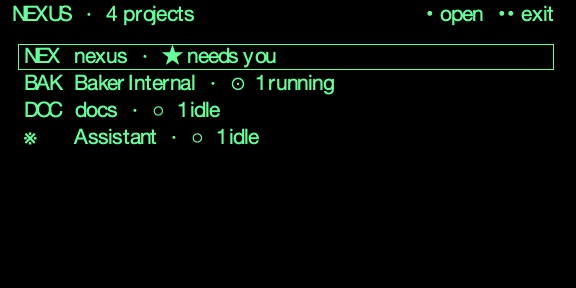
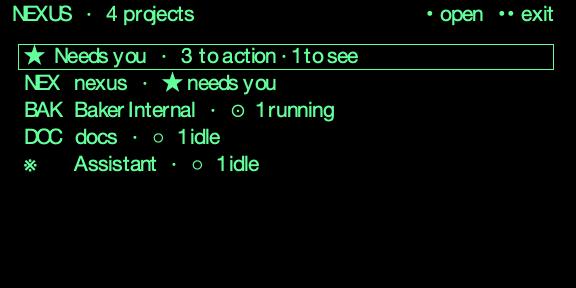
fix(glasses): review — landing waits for the attention fetch, live door row, list toast, rows show the reason, capture matrix (#477 slice 7)
Copilot's five findings on PR #493, all applied:
- The landing decision waits for the first attention answer (`attentionReady`
  in the store, set by HubFeed's fetch on success or failure); the hub marks
  `ok` before that fetch returns, so the old one-shot check only ever saw the
  sessions.
- The Projects signature includes the needs counts, so the door row appears
  and updates while Projects is open.
- The Needs-you chrome shows the toast `resolveLens` leaves (its signature
  includes `s.error`), cleared on the next navigation, instead of the message
  surfacing later on an unrelated card.
- Rows carry the reason — the hub's reason for a session, the item's why, the
  kind label only when the why is empty — as the intent's "glyph, title, why"
  said; the reason is fitted to 200 px, the name gets the rest.
- `scripts/capture-screens.mjs` shoots `needs` and `item` instead of the
  deleted `interrupt`; docs/screens gains needs.png and item.png, projects.png
  is regenerated (the door row), interrupt.png is removed.

diff --git a/src/glasses/src/glass/AppGlasses3c.tsx b/src/glasses/src/glass/AppGlasses3c.tsx
@@ -219,10 +219,13 @@ const PROJECT_NAME_W = PROJECT_ROW_W - 24
 const NEEDS_GLYPH_ROW = '★'
 const ITEM_RAIL_W = 214
 
-/** Needs-you row label: glyph · name · meta, the name fitted to what the fixed parts leave. */
+/** Needs-you row label: glyph · name · reason. The reason (a why, or the hub's reason)
+ *  gets up to NEEDS_META_W; the name gets whatever the fixed parts leave. */
+const NEEDS_META_W = 200
 function needsRowLabel(r: { glyph: string; name: string; meta: string }): string {
-  const budget = PROJECT_NAME_W - Math.ceil(getTextWidth(`${r.glyph}     ·   ${r.meta}`))
-  return `${r.glyph}  ${fitToWidth(r.name, budget)}   ·   ${r.meta}`
+  const meta = fitToWidth(r.meta, NEEDS_META_W)
+  const budget = PROJECT_NAME_W - Math.ceil(getTextWidth(`${r.glyph}     ·   ${meta}`))
+  return `${r.glyph}  ${fitToWidth(r.name, budget)}   ·   ${meta}`
 }
 
 // A firmware LIST item is a single text run, so the only lever for lining the name
@@ -283,7 +286,7 @@ function sessionRow(s: SessionSummary, nameW: number): { id: string; label: stri
 // selection) when a store update doesn't actually change the display.
 function signature(s: GlassSnapshot, scr: Screen, nav: Nav, groups: ProjGroup[]): string {
   if (scr === 'projects')
-    return `proj|${s.connection}|${groups.map((g) => `${g.badge}${g.name}${g.sessions.length}${g.sessions.some((x) => x.needsAttention) ? '!' : ''}`).join('~')}`
+    return `proj|${s.connection}|${needsTitle(needsCounts(attentionEntriesOf(s)))}|${groups.map((g) => `${g.badge}${g.name}${g.sessions.length}${g.sessions.some((x) => x.needsAttention) ? '!' : ''}`).join('~')}`
   if (scr === 'sessions')
     return `sess|${nav.projIdx}|${groups.map((g) => g.badge).join('')}|${(groups[nav.projIdx]?.sessions ?? []).map((x) => sessionRow(x, sessionsLayout(groups).nameW).label).join('~')}`
   // The activity line is part of the signature, not just the reply — while the agent
@@ -292,7 +295,7 @@ function signature(s: GlassSnapshot, scr: Screen, nav: Nav, groups: ProjGroup[])
   if (scr === 'detail') return `detail|${s.activeSessionId}|${latestReplyText(s.activeEvents).length}|${latestActivity(s.activeEvents) ?? ''}|${s.detailPage}|${s.steering ? 'S' : ''}|${s.interim}|${s.error ?? ''}|${s.pendingSteer ? `P${s.pendingSteer.text.length}:${s.pendingSteer.baseReply.length}` : ''}`
   if (scr === 'approval') return `appr|${gates(s).map((a) => a.id).join(',')}`
   if (scr === 'question') { const a = questions(s)[0]; const q = a ? currentQuestion(a, s) : null; return `q|${a?.id}|${q ? `${q.idx}/${q.total}` : ''}|${s.listening ? 'L' : ''}|${s.interim}|${s.error ?? ''}|${q ? q.options.join('~') : ''}|${q?.allowOther ? 'O' : ''}` }
-  if (scr === 'needs') return `needs|${s.connection}|${attentionEntriesOf(s).map((e) => { const r = needsRow(e); return `${r.id}${r.meta}${r.name}` }).join('~')}`
+  if (scr === 'needs') return `needs|${s.connection}|${s.error ?? ''}|${attentionEntriesOf(s).map((e) => { const r = needsRow(e); return `${r.id}${r.meta}${r.name}` }).join('~')}`
   const it = s.attention?.find((i) => i.id === nav.itemId)
   return `item|${nav.itemId}|${it ? `${it.title}|${it.why}|${cardVerbRows(it).map((r) => r.verb).join(',')}` : 'gone'}|${s.error ?? ''}`
 }
@@ -424,9 +427,10 @@ export function AppGlasses3c() {
         }
         case 'needs': {
           // A session row opens its detail; an item row opens the card (D52) — no verb
-          // runs from the list.
+          // runs from the list. Any toast left by the last verb is consumed here.
           const r = typeof idx === 'number' ? rowsRef.current[idx] : undefined
           if (!r?.id) break
+          store.setGlassError(null)
           if (r.id.startsWith('session:')) openSession(r.id.slice('session:'.length))
           else if (r.id.startsWith('item:')) { navRef.current = { ...navRef.current, itemId: r.id.slice('item:'.length) }; render() }
           break
@@ -471,7 +475,7 @@ export function AppGlasses3c() {
           break
         }
         case 'sessions': { navRef.current = { ...navRef.current, home: 'projects' }; render(); break } // back to projects home
-        case 'needs': { navRef.current = { ...navRef.current, home: 'projects' }; render(); break }    // back to projects home
+        case 'needs': { store.setGlassError(null); navRef.current = { ...navRef.current, home: 'projects' }; render(); break }    // back to projects home
         case 'item': { navRef.current = { ...navRef.current, itemId: null }; render(); break }         // back to the list
         case 'detail': { if (s.steering) { cancelSteer(); break } closeSession(); break } // 2tap: stop steering, else leave
         case 'approval': { const a = gates(s)[0]; if (a) deny(a.id); break }
@@ -519,8 +523,10 @@ export function AppGlasses3c() {
       if (nav.home === 'sessions' && !groups[nav.projIdx]) { nav.home = 'projects'; nav.projIdx = 0 }
       // An open card whose item left the store (resolved elsewhere, expired) — fall back to the list.
       if (nav.itemId && !s.attention?.some((i) => i.id === nav.itemId)) nav.itemId = null
-      // Landing (D54): the first connected snapshot decides the home once.
-      if (!landedRef.current && s.connection === 'ok') {
+      // Landing (D54): decided once, on the first snapshot that is connected AND has
+      // the first attention answer — HubFeed marks `ok` before that fetch returns,
+      // so an earlier decision would only ever see the sessions.
+      if (!landedRef.current && s.connection === 'ok' && s.attentionReady) {
         landedRef.current = true
         if (landsOnNeeds(attentionEntriesOf(s))) nav.home = 'needs'
       }
@@ -545,7 +551,7 @@ export function AppGlasses3c() {
 export function glass(st: ReturnType<typeof store.getState>): GlassSnapshot {
   return {
     connection: st.connection, armed: st.armed, sessions: st.sessions,
-    approvals: st.approvals, attention: st.attention, activeSessionId: st.activeSessionId,
+    approvals: st.approvals, attention: st.attention, attentionReady: st.attentionReady, activeSessionId: st.activeSessionId,
     activeEvents: st.activeEvents, detailPage: st.detailPage, error: st.glassError,
     listening: st.glassListening, steering: st.glassSteering, interim: st.glassInterim,
     pendingSteer: st.glassPendingSteer,
@@ -690,8 +696,10 @@ export function composeCockpitPage(
     // notices — one native list under frameless chrome, like Projects. Tap opens a
     // session or an item card; nothing runs from a row.
     const entries = attentionEntriesOf(s)
-    const state = s.connection === 'ok' ? needsTitle(needsCounts(entries)) : s.connection === 'error' ? 'disconnected' : 'connecting…'
-    addNavChrome(page, `NEEDS YOU   ·   ${state}`, '• open   •• projects')
+    // The chrome's right-hand text is the counts — or, just after a verb, the one-line
+    // acknowledgement / refusal `resolveLens` left (cleared on the next navigation).
+    const state = s.error ? s.error : s.connection === 'ok' ? needsTitle(needsCounts(entries)) : s.connection === 'error' ? 'disconnected' : 'connecting…'
+    addNavChrome(page, `NEEDS YOU   ·   ${fitToWidth(state, 260)}`, '• open   •• projects')
     const rows = entries.length
       ? entries.map((e) => { const r = needsRow(e); return { id: r.id, label: needsRowLabel(r) } })
       : [{ id: '', label: s.connection === 'ok' ? '(nothing needs you)' : s.connection === 'error' ? '(disconnected)' : '(connecting…)' }]

diff --git a/src/glasses/src/glass/attention.test.ts b/src/glasses/src/glass/attention.test.ts
@@ -13,7 +13,7 @@ const item = (over: Partial<AttentionItem> & { id: string }): AttentionItem => (
   verbs: ['draft', 'open', 'snooze', 'dismiss'], lens_verbs: ['draft', 'snooze', 'dismiss'],
   alert_seq: 4, created_at: 0, snoozed_until: null, ...over,
 })
-const notice = (id: string) => item({ id, kind: 'night.summary', category: 'notice', proposed_verb: 'dismiss', verbs: ['open', 'dismiss'], lens_verbs: ['dismiss'], title: 'Night summary' })
+const notice = (id: string) => item({ id, kind: 'night.summary', category: 'notice', proposed_verb: 'dismiss', verbs: ['open', 'dismiss'], lens_verbs: ['dismiss'], title: 'Night summary', why: 'seen is enough' })
 const pr = (id: string) => item({ id, kind: 'pr.review', title: '#212 Tighten the poll', why: 'RISKY', proposed_verb: 'open', verbs: ['open', 'close', 'snooze', 'dismiss'], lens_verbs: ['dismiss'] })
 
 test('entries: sessions needing attention first, then open actions, then open notices (D51)', () => {
@@ -22,12 +22,16 @@ test('entries: sessions needing attention first, then open actions, then open no
   assert.deepEqual(attentionEntries([], undefined), [])
 })
 
-test('needs rows: tier glyph, name and a short meta per source', () => {
+test('needs rows: tier glyph, name and the reason — the hub reason, the why, or the kind when the why is empty', () => {
   const [s, p, m, n] = attentionEntries([session('s1', true)], [pr('p'), item({ id: 'm' }), notice('n')])
-  assert.deepEqual(needsRow(s!), { id: 'session:s1', glyph: '★', name: 's1', meta: 'needs you', kind: 'session' })
-  assert.deepEqual(needsRow(p!), { id: 'item:p', glyph: '★', name: '#212 Tighten the poll', meta: 'PR review', kind: 'item' })
-  assert.equal(needsRow(m!).meta, 'mail waiting')
-  assert.deepEqual(needsRow(n!), { id: 'item:n', glyph: '○', name: 'Night summary', meta: 'notice', kind: 'item' })
+  assert.deepEqual(needsRow(s!), { id: 'session:s1', glyph: '★', name: 's1', meta: 'needs input', kind: 'session' })
+  assert.deepEqual(needsRow(p!), { id: 'item:p', glyph: '★', name: '#212 Tighten the poll', meta: 'RISKY', kind: 'item' })
+  assert.equal(needsRow(m!).meta, 'waiting 3d')
+  assert.deepEqual(needsRow(n!), { id: 'item:n', glyph: '○', name: 'Night summary', meta: 'seen is enough', kind: 'item' })
+  assert.equal(needsRow(attentionEntries([], [item({ id: 'e', why: '' })])[0]!).meta, 'mail waiting', 'an empty why falls back to the kind')
+  const bare = { ...session('s2', true), attention: { type: 'custom', message: 'Pick a branch' } }
+  assert.equal(needsRow(attentionEntries([bare], [])[0]!).meta, 'Pick a branch')
+  assert.equal(needsRow(attentionEntries([{ ...session('s3', true), attention: null }], [])[0]!).meta, 'needs you')
 })
 
 test('counts and title: sessions count as actions, notices apart; the landing rule follows the actions', () => {

diff --git a/src/glasses/src/glass/attention.ts b/src/glasses/src/glass/attention.ts
@@ -63,19 +63,32 @@ export function itemReason(item: AttentionItem): string {
   return item.why?.trim() || kindLabel(item.kind)
 }
 
-/** What the list shows for an entry (D51): a tier glyph, the name, and a short
- *  meta — `needs you` for a session, the kind label for an action, `notice` for
- *  a notice. Pixel fitting is the HUD's job; the why belongs to the card. */
+/** What the list shows for an entry (D51, the intent's "glyph, title, why"): a
+ *  tier glyph, the name, and the reason — the hub's reason for a session, the
+ *  item's why (its kind label when the why is empty). Pixel fitting is the HUD's job. */
 export interface NeedsRow { id: string; glyph: string; name: string; meta: string; kind: 'session' | 'item' }
 export const NEEDS_GLYPH = { action: '★', notice: '○' } as const
+
+// Human-readable reason from the hub's attention payload on a session.
+const SESSION_REASON: Record<string, string> = {
+  permission_prompt: 'permission',
+  idle_prompt: 'idle — waiting',
+  agent_needs_input: 'needs input',
+  elicitation_dialog: 'has a question',
+}
+export function sessionReason(s: SessionSummary): string {
+  const a = s.attention
+  if (!a) return 'needs you'
+  return SESSION_REASON[a.type] || (a.message || 'needs you').trim()
+}
 
 export function needsRow(entry: AttentionEntry): NeedsRow {
   if (entry.kind === 'session') {
     const s = entry.session
-    return { id: `session:${s.id}`, glyph: NEEDS_GLYPH.action, name: s.title || s.project || s.id.slice(0, 8), meta: 'needs you', kind: 'session' }
+    return { id: `session:${s.id}`, glyph: NEEDS_GLYPH.action, name: s.title || s.project || s.id.slice(0, 8), meta: sessionReason(s), kind: 'session' }
   }
   const notice = isNoticeItem(entry.item)
-  return { id: `item:${entry.item.id}`, glyph: notice ? NEEDS_GLYPH.notice : NEEDS_GLYPH.action, name: entry.item.title, meta: notice ? 'notice' : kindLabel(entry.item.kind), kind: 'item' }
+  return { id: `item:${entry.item.id}`, glyph: notice ? NEEDS_GLYPH.notice : NEEDS_GLYPH.action, name: entry.item.title, meta: itemReason(entry.item), kind: 'item' }
 }
 
 /** Actions = sessions needing a human + open action items; notices apart (D51). */

diff --git a/src/glasses/src/store.ts b/src/glasses/src/store.ts
@@ -11,6 +11,7 @@ export interface State {
   sessions: SessionSummary[]
   approvals: Approval[] // pending only
   attention: AttentionItem[] // partner "Needs you" items, open only (#477) — the Needs-you list's second source
+  attentionReady: boolean    // the first attention fetch has answered (items, a 404 or a blip) — the HUD's landing waits for it (slice 7, D54)
   error: string | null
   forceConnect: boolean // user asked to re-open the Connect screen (change hub), even though a baseUrl is saved
 
@@ -47,6 +48,7 @@ let state: State = {
   sessions: [],
   approvals: [],
   attention: [],
+  attentionReady: false,
   error: null,
   forceConnect: false,
   activeSessionId: null,

diff --git a/src/glasses/src/App.tsx b/src/glasses/src/App.tsx
@@ -24,7 +24,9 @@ function refreshSessions() {
 // Partner attention items (#477) join the Needs-you list (slice 7). An older gateway
 // without the route (404) or a partner blip leaves the list to the thread-born sessions.
 function refreshAttention() {
-  getAttention().then(attention => store.set({ attention })).catch(() => {})
+  // `attentionReady` flips on the first answer of any kind, so the HUD's one-shot
+  // landing (D54) never decides on the empty pre-fetch array.
+  getAttention().then(attention => store.set({ attention, attentionReady: true })).catch(() => store.set({ attentionReady: true }))
 }
 
 function applyEvent(e: SseEvent) {

diff --git a/src/glasses/src/glass/shared.ts b/src/glasses/src/glass/shared.ts
@@ -9,6 +9,7 @@ export interface GlassSnapshot {
   sessions: SessionSummary[]
   approvals: Approval[]          // pending only; a non-empty queue takes over the HUD
   attention?: AttentionItem[]    // partner items (#477); open ones join the Needs-you list (slice 7). Optional so prototype snapshot builders need no change.
+  attentionReady?: boolean       // the first attention fetch answered; the landing decision waits for it (D54)
   activeSessionId: string | null // set => detail screen
   activeEvents: TranscriptEvent[]
   detailPage: number             // Phase 2: page of the latest reply shown on the detail card

diff --git a/src/glasses/src/glass/AppGlasses.tsx b/src/glasses/src/glass/AppGlasses.tsx
@@ -18,6 +18,7 @@ export function AppGlasses() {
     sessions: st.sessions,
     approvals: st.approvals,
     attention: st.attention,
+    attentionReady: st.attentionReady,
     activeSessionId: st.activeSessionId,
     activeEvents: st.activeEvents,
     detailPage: st.detailPage,
